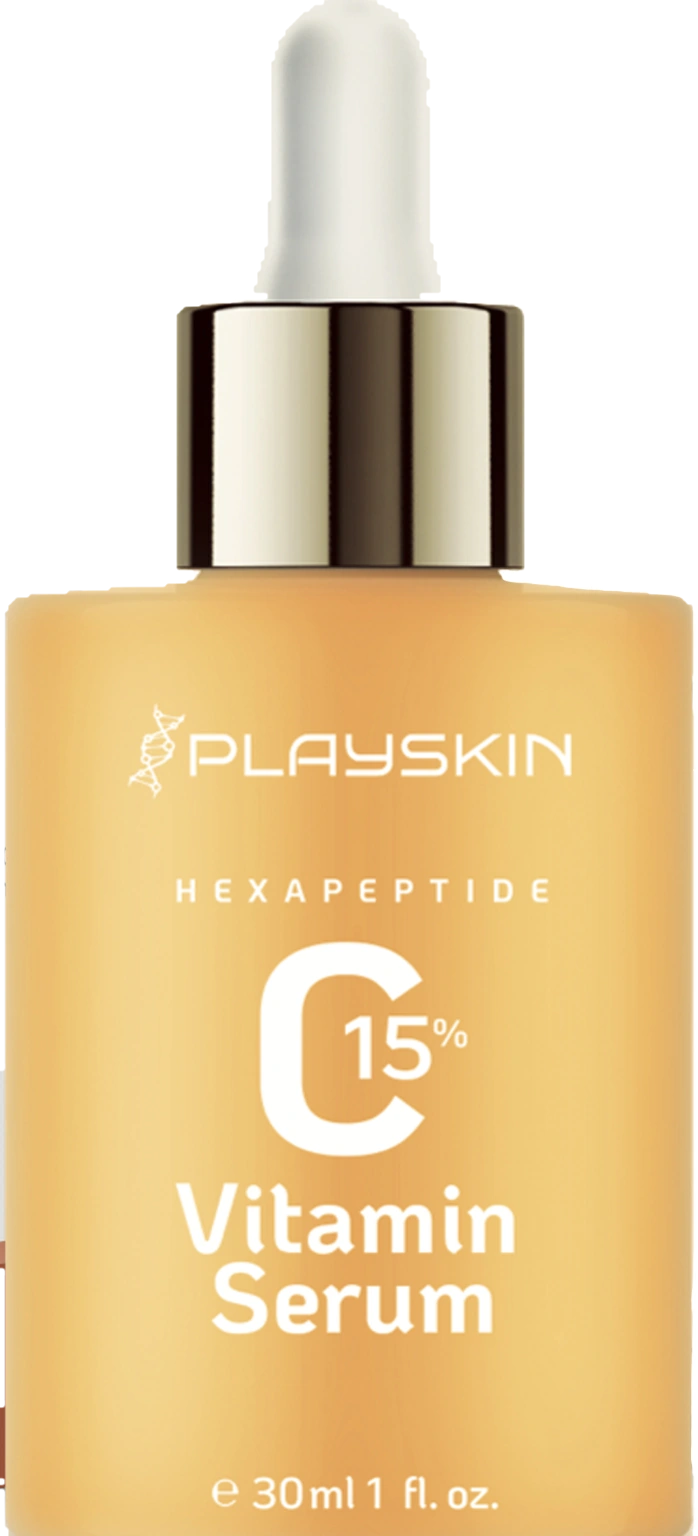
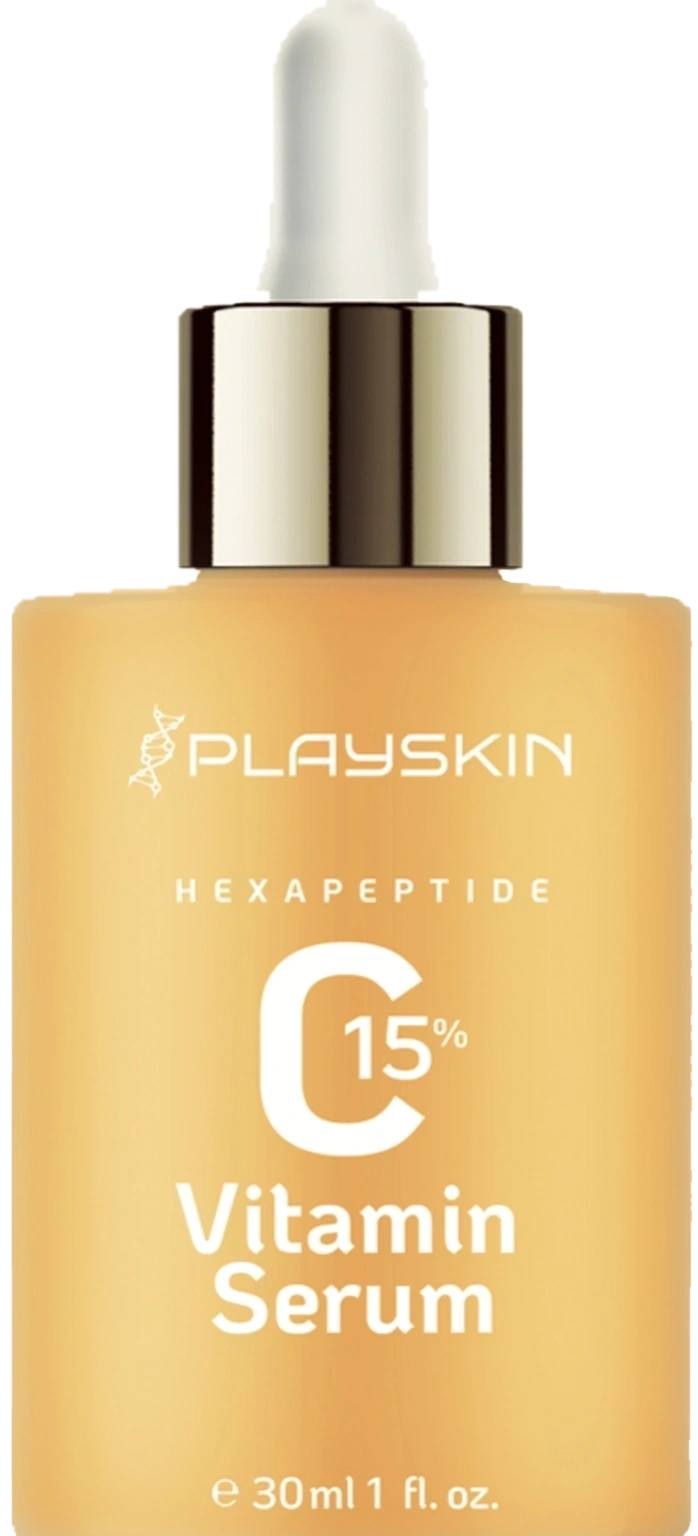
Ürün arkasındaki dikdörtgenler ve LED renk geçişi düzeltildi
- Parlama katmanı (pl-sheen) kaldırıldı: maskesi uygulanmadığında ürün
  arkasında açık renkli dikdörtgenler oluşturuyordu
- Yansıma belirgin şekilde hafifletildi (ters yazı okunmuyor)
- Vitamin C sol kenarındaki kutu kalıntısı temizlendi
- LED: kaydırmayla video arama yerine videodan alınan 5 renk karesi
  arasında geçiş (Safari dahil her tarayıcıda çalışır)

Claude-Session: https://claude.ai/code/session_01XvpMot7LqxZbjZwDPzSGNi

diff --git a/assets/lab/lab.js b/assets/lab/lab.js
@@ -119,36 +119,26 @@ let galShift = 0;
 function measureGallery() { if (galTrack) galShift = Math.max(0, galTrack.scrollWidth - innerWidth); }
 
 /* ------------------------------------------------------------------ */
-/* LED: video kaydırmayla oynar                                        */
+/* LED: videodan alınan renk kareleri kaydırmayla değişir             */
+/* (her tarayıcıda çalışır; video karesi aramaya bağlı değil)         */
 /* ------------------------------------------------------------------ */
-const ledVideo = $('.led-video');
+const ledFrames = $$('.led-frame');
 const ledItems = $$('.led-list li').map((el) => ({ el, t0: parseFloat(el.dataset.t0), t1: parseFloat(el.dataset.t1), c: el.style.getPropertyValue('--c') }));
 const ledMedia = $('.led-media');
-let ledUnlocked = false;
-function unlockLed() {
-  if (ledUnlocked || !ledVideo) return; ledUnlocked = true;
-  ensureSrc(ledVideo);
-  const p = ledVideo.play(); if (p) p.then(() => ledVideo.pause()).catch(() => {});
-}
-new IntersectionObserver((es) => { if (es[0].isIntersecting) { ensureSrc(ledVideo); unlockLed(); } }, { rootMargin: '150% 0px' }).observe(S.led.el);
-['touchstart', 'pointerdown', 'keydown'].forEach((ev) => addEventListener(ev, unlockLed, { once: true, passive: true }));
 let ledLast = -1;
 let ledColor = [0.69, 0.3, 1];
 function updateLed(y) {
-  if (!ledVideo) return;
+  if (!ledFrames.length) return;
   const p = prog('led', y);
   if (p < -0.4 || p > 1.3) return;
-  const dur = ledVideo.duration || 10;
-  const t = seg(p, 0.02, 0.94) * (dur - 0.05);
-  if (ledVideo.readyState >= 1 && !ledVideo.seeking && Math.abs(ledVideo.currentTime - t) > 0.035) {
-    try { if (typeof ledVideo.fastSeek === 'function' && Math.abs(ledVideo.currentTime - t) > 1.5) ledVideo.fastSeek(t); else ledVideo.currentTime = t; } catch (e) {}
-  }
-  const idx = ledItems.findIndex((l) => t >= l.t0 && t < l.t1);
+  const t = seg(p, 0.02, 0.94) * 10;
+  const idx = Math.max(0, ledItems.findIndex((l) => t >= l.t0 && t < l.t1));
   if (idx !== ledLast) {
     ledLast = idx;
-    ledItems.forEach((l, n) => l.el.classList.toggle('on', n === idx && p > -0.05));
-    if (ledMedia && idx >= 0) ledMedia.style.setProperty('--led-glow', ledItems[idx].c.trim() + '66');
-    if (idx >= 0) { const n = parseInt(ledItems[idx].c.trim().slice(1), 16); ledColor = [((n >> 16) & 255) / 255, ((n >> 8) & 255) / 255, (n & 255) / 255]; }
+    ledFrames.forEach((el, n) => { el.style.opacity = n === idx ? 1 : 0; });
+    ledItems.forEach((l, n) => l.el.classList.toggle('on', n === idx));
+    if (ledMedia) ledMedia.style.setProperty('--led-glow', ledItems[idx].c.trim() + '66');
+    const n = parseInt(ledItems[idx].c.trim().slice(1), 16); ledColor = [((n >> 16) & 255) / 255, ((n >> 8) & 255) / 255, (n & 255) / 255];
   }
 }
 
@@ -346,7 +336,7 @@ function timeline(y) {
 /* ------------------------------------------------------------------ */
 /* Ürünler: net görsel katmanı (yansıma, gölge, parlama, tarama)       */
 /* ------------------------------------------------------------------ */
-const plEls = $$('.pl').map((el) => ({ el, body: $('.pl-body', el), refl: $('.pl-refl', el), line: $('.pl-line', el), sheen: $('.pl-sheen', el), last: '' }));
+const plEls = $$('.pl').map((el) => ({ el, body: $('.pl-body', el), refl: $('.pl-refl', el), line: $('.pl-line', el), last: '' }));
 const prodLayer = $('.prod-layer');
 const pinkImg = $('.pl[data-pl="0"] .pl-img');
 function updateProducts(P) {
@@ -355,7 +345,6 @@ function updateProducts(P) {
   prodLayer.style.visibility = show ? '' : 'hidden';
   if (!show) return;
   prodLayer.style.opacity = P.pvis.toFixed(3);
-  const band = lerp(30 - P.prot * 2, lerp(-25, 125, P.sweep), P.swOn);
   const tf = 'translate(-50%,-50%) translate(' + P.px.toFixed(2) + 'vw,' + P.py.toFixed(2) + 'vh) scale(' + P.ps.toFixed(4) + ') rotateY(' + P.prot.toFixed(2) + 'deg)';
   [P.d0, P.d1, P.d2, P.d3].forEach((d, i) => {
     const o = plEls[i]; if (!o) return;
@@ -368,9 +357,7 @@ function updateProducts(P) {
     o.body.style.clipPath = d < 0.001 ? '' : (incoming ? 'inset(' + cut + ' 0 0 0)' : 'inset(0 0 ' + cut + ' 0)');
     o.line.style.top = incoming ? cut : ((1 - d) * 100).toFixed(2) + '%';
     o.line.style.opacity = d > 0.01 && d < 0.99 ? 1 : 0;
-    o.refl.style.opacity = (0.2 * (1 - d)).toFixed(3);
-    o.sheen.style.setProperty('--b', band.toFixed(1));
-    o.sheen.style.opacity = (0.55 + 0.45 * P.swOn).toFixed(2);
+    o.refl.style.opacity = (0.08 * (1 - d)).toFixed(3);
   });
 }
 

diff --git a/index.html b/index.html
@@ -26,25 +26,25 @@
   <figure class="pl" data-pl="0" style="--ar:504/2048;--h:1;--src:url(pink-mist.webp)">
     <span class="pl-shadow"></span>
     <img class="pl-refl" src="assets/lab/pink-mist.webp" alt="">
-    <span class="pl-body"><img class="pl-img" src="assets/lab/pink-mist.webp" alt=""><span class="pl-sheen"></span></span>
+    <span class="pl-body"><img class="pl-img" src="assets/lab/pink-mist.webp" alt=""></span>
     <span class="pl-line"></span>
   </figure>
   <figure class="pl" data-pl="1" style="--ar:698/1536;--h:.78;--src:url(vitamin-c.webp)">
     <span class="pl-shadow"></span>
     <img class="pl-refl" src="assets/lab/vitamin-c.webp" alt="">
-    <span class="pl-body"><img class="pl-img" src="assets/lab/vitamin-c.webp" alt=""><span class="pl-sheen"></span></span>
+    <span class="pl-body"><img class="pl-img" src="assets/lab/vitamin-c.webp" alt=""></span>
     <span class="pl-line"></span>
   </figure>
   <figure class="pl" data-pl="2" style="--ar:810/1800;--h:.78;--src:url(nad-serum.webp)">
     <span class="pl-shadow"></span>
     <img class="pl-refl" src="assets/lab/nad-serum.webp" alt="">
-    <span class="pl-body"><img class="pl-img" src="assets/lab/nad-serum.webp" alt=""><span class="pl-sheen"></span></span>
+    <span class="pl-body"><img class="pl-img" src="assets/lab/nad-serum.webp" alt=""></span>
     <span class="pl-line"></span>
   </figure>
   <figure class="pl" data-pl="3" style="--ar:273/1367;--h:.97;--src:url(cc-cream.webp)">
     <span class="pl-shadow"></span>
     <img class="pl-refl" src="assets/lab/cc-cream.webp" alt="">
-    <span class="pl-body"><img class="pl-img" src="assets/lab/cc-cream.webp" alt=""><span class="pl-sheen"></span></span>
+    <span class="pl-body"><img class="pl-img" src="assets/lab/cc-cream.webp" alt=""></span>
     <span class="pl-line"></span>
   </figure>
 </div>
@@ -281,8 +281,12 @@
 <!-- 7. LED Face Mask -->
 <section id="led" class="pin dark" style="--len: 420" aria-label="Playskin LED Face Mask">
   <div class="stick">
-    <div class="led-media">
-      <video class="led-video" muted playsinline preload="auto" data-src-desktop="assets/lab/video/led-neon.mp4" data-src-phone="assets/lab/video/led-story.mp4" poster="assets/lab/video/led-neon-poster.jpg" aria-hidden="true"></video>
+    <div class="led-media" aria-hidden="true">
+      <picture class="led-frame"><source media="(max-width: 760px)" srcset="assets/lab/led/story-0.webp"><img src="assets/lab/led/neon-0.webp" alt="" width="864" height="1080" loading="lazy" decoding="async"></picture>
+      <picture class="led-frame"><source media="(max-width: 760px)" srcset="assets/lab/led/story-1.webp"><img src="assets/lab/led/neon-1.webp" alt="" width="864" height="1080" loading="lazy" decoding="async"></picture>
+      <picture class="led-frame"><source media="(max-width: 760px)" srcset="assets/lab/led/story-2.webp"><img src="assets/lab/led/neon-2.webp" alt="" width="864" height="1080" loading="lazy" decoding="async"></picture>
+      <picture class="led-frame"><source media="(max-width: 760px)" srcset="assets/lab/led/story-3.webp"><img src="assets/lab/led/neon-3.webp" alt="" width="864" height="1080" loading="lazy" decoding="async"></picture>
+      <picture class="led-frame"><source media="(max-width: 760px)" srcset="assets/lab/led/story-4.webp"><img src="assets/lab/led/neon-4.webp" alt="" width="864" height="1080" loading="lazy" decoding="async"></picture>
     </div>
     <div class="ov sec-head led-head" data-sec="led" data-in="-1" data-out="2">
       <p class="eyebrow">07 · Işık ritüeli</p>

diff --git a/assets/lab/lab.css b/assets/lab/lab.css
@@ -177,7 +177,9 @@ main{position:relative;z-index:1}
 .dark{color:#F2F2F0}
 .dark .eyebrow,.dark .small{color:rgba(242,242,240,.75)}
 .led-media{position:absolute;right:clamp(16px,6vw,120px);top:50%;translate:0 -50%;height:min(84vh,860px);aspect-ratio:4/5;border-radius:28px;overflow:hidden;background:#07070A;box-shadow:0 0 120px var(--led-glow,rgba(176,77,255,.35));transition:box-shadow .6s}
-.led-video{width:100%;height:100%;object-fit:cover}
+.led-frame{position:absolute;inset:0;opacity:0;transition:opacity .35s linear}
+.led-frame:first-child{opacity:1}
+.led-frame img{width:100%;height:100%;object-fit:cover}
 .led-list{list-style:none;margin:0;padding:0;position:absolute;left:var(--gutter);bottom:clamp(40px,10vh,100px)}
 .led-list li{position:absolute;left:0;bottom:0;white-space:nowrap;font-size:clamp(2.6rem,7vw,6.4rem);font-weight:600;letter-spacing:-.05em;color:var(--c);text-shadow:0 0 40px var(--c);opacity:0;transform:translateY(18px);transition:opacity .45s,transform .45s}
 .led-list li.on{opacity:1;transform:none}
@@ -236,8 +238,9 @@ main{position:relative;z-index:1}
 .pl{position:absolute;left:50%;top:50%;margin:0;height:calc(64vh * var(--h));aspect-ratio:var(--ar);transform-origin:50% 50%;will-change:transform;backface-visibility:hidden}
 .pl-body{position:absolute;inset:0;display:block}
 .pl-img{width:100%;height:100%;object-fit:contain;filter:drop-shadow(0 26px 34px rgba(70,50,60,.14)) drop-shadow(0 4px 8px rgba(70,50,60,.08))}
-.pl-sheen{position:absolute;inset:0;--b:30;background:linear-gradient(100deg,rgba(255,255,255,0) calc(var(--b) * 1% - 16%),rgba(255,255,255,.5) calc(var(--b) * 1%),rgba(255,255,255,0) calc(var(--b) * 1% + 16%));mix-blend-mode:soft-light;-webkit-mask:var(--src) center/100% 100% no-repeat;mask:var(--src) center/100% 100% no-repeat}
-.pl-refl{position:absolute;left:0;top:100%;width:100%;height:100%;object-fit:contain;transform:scaleY(-1);opacity:.2;-webkit-mask-image:linear-gradient(to top,rgba(0,0,0,.85),rgba(0,0,0,0) 32%);mask-image:linear-gradient(to top,rgba(0,0,0,.85),rgba(0,0,0,0) 32%)}
+.pl-sheen{position:absolute;inset:0;--b:30;background:linear-gradient(100deg,rgba(255,255,255,0) calc(var(--b) * 1% - 16%),rgba(255,255,255,.5) calc(var(--b) * 1%),rgba(255,255,255,0) calc(var(--b) * 1% + 16%));mix-blend-mode:soft-light;-webkit-mask-size:100% 100%;mask-size:100% 100%;-webkit-mask-repeat:no-repeat;mask-repeat:no-repeat;visibility:hidden}
+.pl-sheen.ready{visibility:visible}
+.pl-refl{position:absolute;left:0;top:100%;width:100%;height:100%;object-fit:contain;transform:scaleY(-1);opacity:.08;-webkit-mask-image:linear-gradient(to top,rgba(0,0,0,.7),rgba(0,0,0,0) 18%);mask-image:linear-gradient(to top,rgba(0,0,0,.7),rgba(0,0,0,0) 18%)}
 .pl-shadow{position:absolute;left:4%;right:4%;top:calc(100% - 2.5%);height:5%;border-radius:50%;background:radial-gradient(closest-side,rgba(60,40,50,.3),rgba(60,40,50,0));filter:blur(4px)}
 .pl-line{position:absolute;left:-6%;right:-6%;height:2px;top:0;opacity:0;background:linear-gradient(90deg,rgba(255,255,255,0),#fff 30%,#fff 70%,rgba(255,255,255,0));box-shadow:0 0 22px 6px rgba(255,255,255,.85)}
 @media (max-width:760px){ .pl{height:calc(58vh * var(--h))} }
